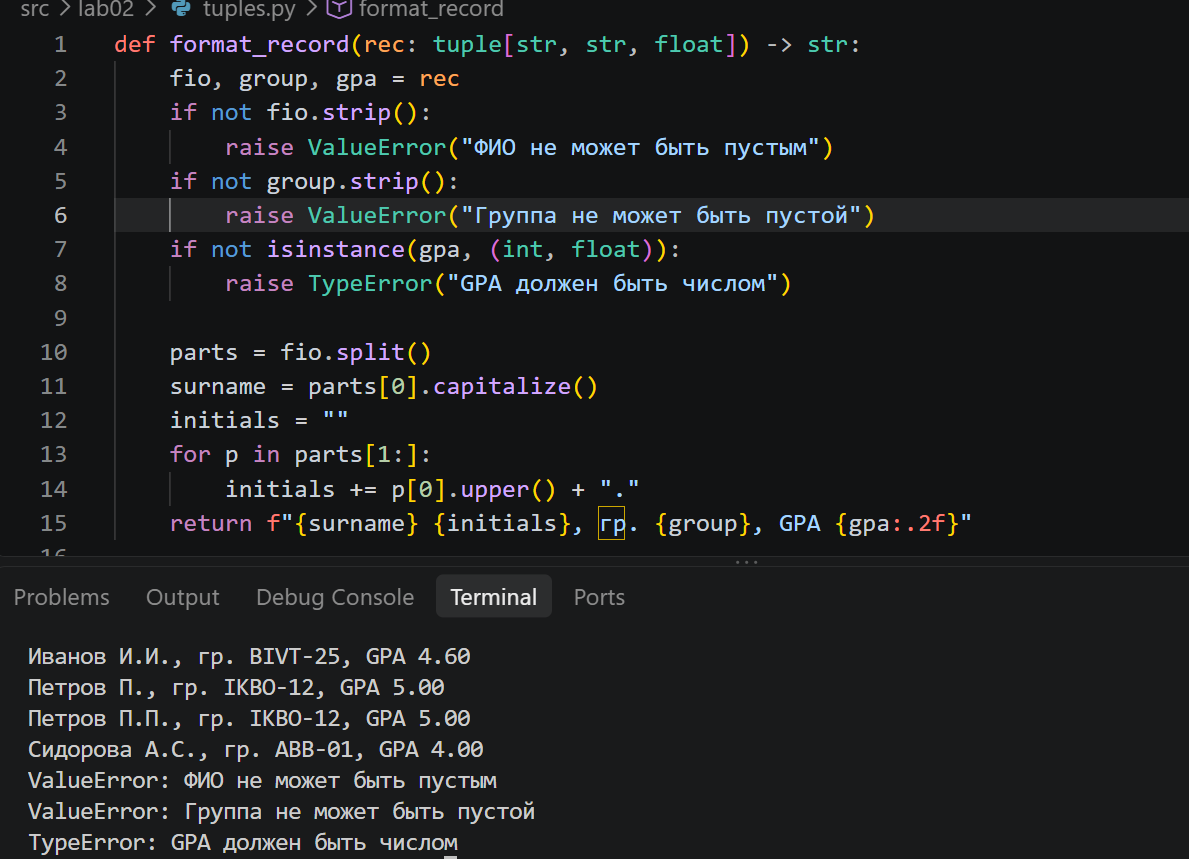
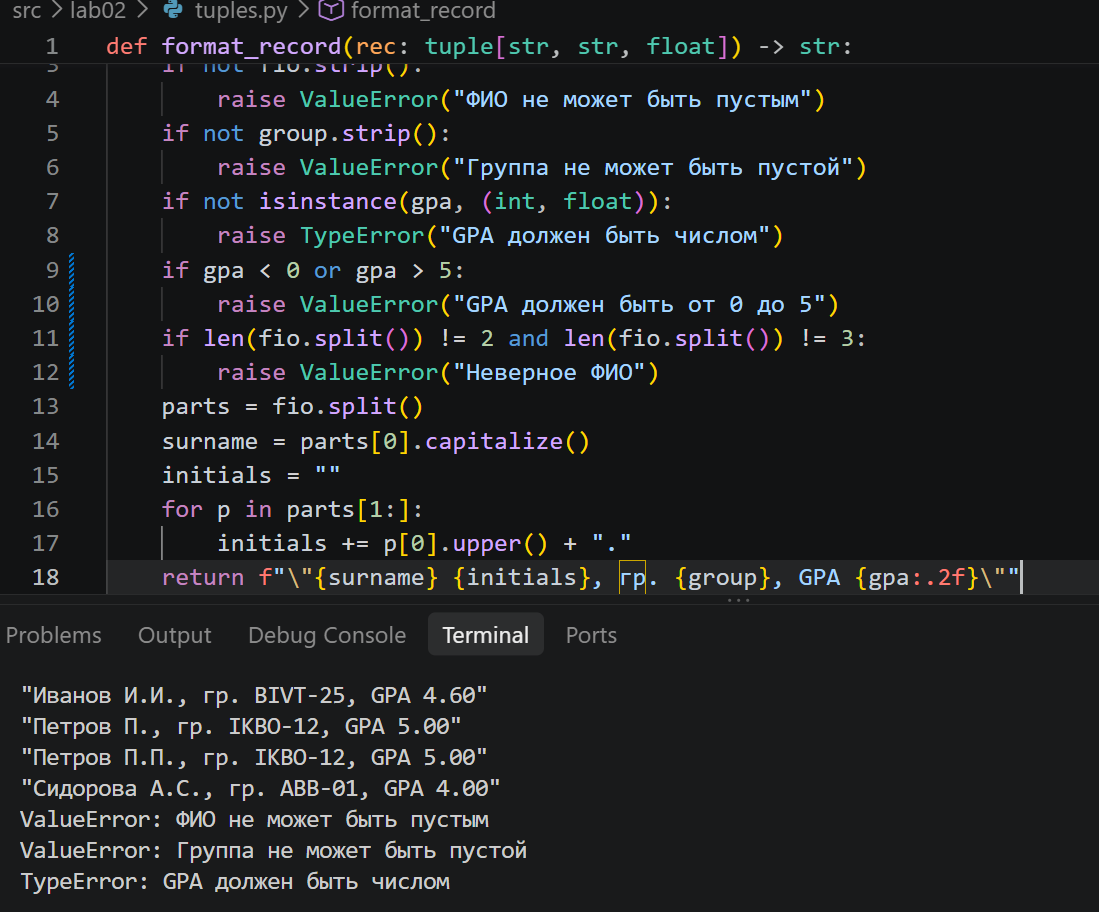
ЛР2: задание 1 - arrays.py

diff --git a/src/lab02/tuples.py b/src/lab02/tuples.py
@@ -6,7 +6,10 @@ def format_record(rec: tuple[str, str, float]) -> str:
         raise ValueError("Группа не может быть пустой")
     if not isinstance(gpa, (int, float)):
         raise TypeError("GPA должен быть числом")
-
+    if gpa < 0 or gpa > 5:
+        raise ValueError("GPA должен быть от 0 до 5")
+    if len(fio.split()) != 2 and len(fio.split()) != 3:
+        raise ValueError("Неверное ФИО")
     parts = fio.split()
     surname = parts[0].capitalize()
     initials = ""
